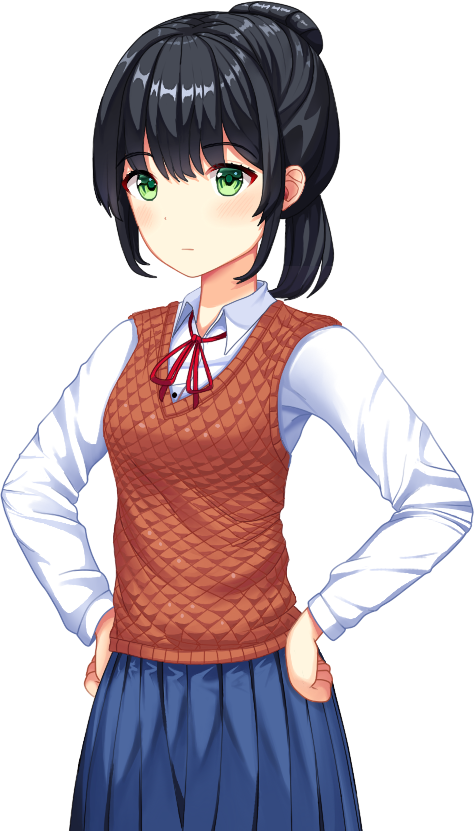
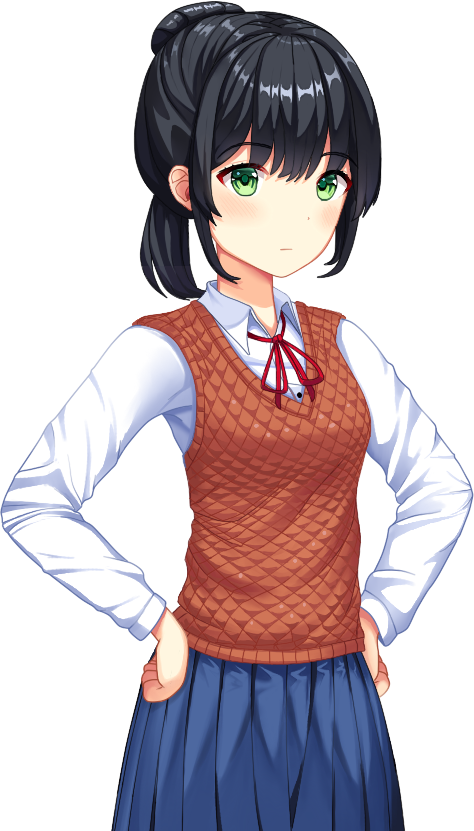
feat: character movement and directionality

diff --git a/src/compiler/ast.rs b/src/compiler/ast.rs
@@ -1,10 +1,9 @@
-use std::collections::HashMap;
-
+use std::{collections::HashMap, iter::Peekable};
 use pest::{iterators::Pair, pratt_parser::PrattParser};
 use pest_derive::Parser;
 use anyhow::{bail, ensure, Context, Result};
 
-use crate::{character::CharacterOperation, chat::controller::GuiChangeTarget};
+use crate::{character::{CharacterOperation, controller::{CharacterDirection, CharacterPosition}}, chat::controller::GuiChangeTarget};
 
 #[derive(Parser)]
 #[grammar = "../sabi.pest"]
@@ -154,6 +153,94 @@ pub fn build_expression(pair: pest::iterators::Pair<Rule>) -> Result<Expr> {
         .context("Failed to parse expression")
 }
 
+fn build_character_spawn_directive(character: &str, action: &str, mut inner_action: Peekable<pest::iterators::Pairs<'_, Rule>>) -> Result<StageCommand> {
+    let result = match action {
+        "appears" | "fade in" => {
+            let mut parameters: (Option<String>, Option<CharacterPosition>, bool) = (None, None, action == "fade in");
+            let mut added_action = Some(());
+            while let Some(_) = added_action {
+                match inner_action.peek() {
+                    Some(n) if n.as_rule() == Rule::emotion_name => {
+                        let emotion_pair = inner_action.next()
+                            .context("Expected emotion pair")?;
+                     
+                        ensure!(emotion_pair.as_rule() == Rule::emotion_name,
+                            "Expected emotion name, found {:?}", emotion_pair.as_rule());
+                        parameters.0 = Some(emotion_pair.as_str().to_owned());
+                    },
+                    Some(n) if n.as_rule() == Rule::character_position => {
+                        let position_pair = inner_action.next()
+                            .context("Expected position pair")?;
+                        
+                        ensure!(position_pair.as_rule() == Rule::character_position,
+                            "Expecter position, found {:?}", position_pair.as_rule());
+                        let position = match CharacterPosition::try_from(position_pair.as_str()) {
+                            Ok(pos) => pos,
+                            Err(e) => bail!(e)
+                        };
+                        parameters.1 = Some(position);
+                    }
+                    _ => {added_action = None;}
+                };
+            }
+            StageCommand::CharacterChange { character: character.to_string(), operation: CharacterOperation::Spawn(parameters.0, parameters.1, parameters.2) }
+        },
+        "disappears" | "fade out" => {
+            StageCommand::CharacterChange { character: character.to_string(), operation: CharacterOperation::Despawn(action == "fade out") }
+        },
+        other => bail!("Unexpected action in Character Spawn Directive command: {:?}", other)
+    };
+    Ok(result)
+}
+
+fn build_character_direction_directive(character: &str, action: &str, mut inner_action: Peekable<pest::iterators::Pairs<'_, Rule>>) -> Result<StageCommand> {
+    let result = match action {
+        "looking" | "looks" => {
+            let direction = match inner_action.peek() {
+                Some(n) if n.as_rule() == Rule::character_direction => {
+                    let direction_pair = inner_action.next().context("Expected character direction")?;
+                    ensure!(direction_pair.as_rule() == Rule::character_direction,
+                        "Expected character direction, found {:?}", direction_pair.as_rule());
+                    
+                    match direction_pair.as_str() {
+                        "left" => CharacterDirection::Left,
+                        "right" => CharacterDirection::Right,
+                        other => { bail!("Unhandled direction provided {:?}", other); }
+                    }
+                    
+                },
+                _ => { bail!("Character direction directive needs direction argument [\"left\", \"right\"]"); }
+            };
+            StageCommand::CharacterChange { character: character.to_string(), operation: CharacterOperation::Look(direction) }
+        }
+        other => bail!("Unexpected action in Character Direction Directive command: {:?}", other)
+    };
+    Ok(result)
+}
+
+fn build_character_movement_directive(character: &str, action: &str, mut inner_action: Peekable<pest::iterators::Pairs<'_, Rule>>) -> Result<StageCommand> {
+    let result = match action {
+        "moves" => {
+            let position = match inner_action.peek() {
+                Some(n) if n.as_rule() == Rule::character_position => {
+                    let position_pair = inner_action.next().context("Expected character direction")?;
+                    ensure!(position_pair.as_rule() == Rule::character_position,
+                        "Expected character position, found {:?}", position_pair.as_rule());
+                    
+                    match CharacterPosition::try_from(position_pair.as_str()) {
+                        Ok(pos) => pos,
+                        Err(e) => bail!(e)
+                    }
+                },
+                _ => { bail!("Character move directive needs position argument [\"center\", \"left\", \"right\", \"invisible left\", \"invisible right\"]"); }
+            };
+            StageCommand::CharacterChange { character: character.to_string(), operation: CharacterOperation::Move(position) }
+        }
+        other => bail!("Unexpected action in Character Direction Directive command: {:?}", other)
+    };
+    Ok(result)
+}
+
 pub fn build_stage_command(pair: Pair<Rule>) -> Result<Statement> {
     ensure!(pair.as_rule() == Rule::stage_command, 
         "Expected stage rule, found {:?}", pair.as_rule());
@@ -212,29 +299,15 @@ pub fn build_stage_command(pair: Pair<Rule>) -> Result<Statement> {
                 .as_str()
                 .to_owned();
             let action = inner_rules.next()
-                .context("Character change missing character action")?
-                .as_str()
-                .to_owned();
-            match action.as_str() {
-                "appears" | "fade in" => {
-                    let fading = action.as_str() == "fade in";
-                    let operation = match inner_rules.peek() {
-                        Some(n) if n.as_rule() == Rule::emotion_name => {
-                            let emotion_pair = inner_rules.next()
-                                .context("Expected emotion pair")?;
-                            
-                            ensure!(emotion_pair.as_rule() == Rule::emotion_name,
-                                "Expected emotion name, found {:?}", emotion_pair.as_rule());
-                            CharacterOperation::Spawn(Some(emotion_pair.as_str().to_owned()), fading)
-                        },
-                        _ => CharacterOperation::Spawn(None, fading)
-                    };
-                    StageCommand::CharacterChange { character, operation }
-                },
-                "disappears" | "fade out" => {
-                    StageCommand::CharacterChange { character, operation: CharacterOperation::Despawn(action.as_str() == "fade out") }
-                },
-                other => bail!("Unexpected action in Character Change command: {:?}", other)
+                .context("Character change missing character action")?;
+            let mut inner_action = action.into_inner().peekable();
+            let action = inner_action.next()
+                .context("Character action missing action identifier")?;
+            match action.as_rule() {
+                Rule::character_spawn_directive => { build_character_spawn_directive(&character, action.as_str(), inner_action)? }
+                Rule::character_direction_directive => { build_character_direction_directive(&character, action.as_str(), inner_action)? },
+                Rule::character_movement_directive => { build_character_movement_directive(&character, action.as_str(), inner_action)? },
+                other => { bail!("Unexpected rule in character_action {:?}", other); }
             }
         },
         other => bail!("Unexpected rule in stage command: {:?}", other)

diff --git a/src/character/controller.rs b/src/character/controller.rs
@@ -1,11 +1,17 @@
 use std::collections::HashMap;
 
-use anyhow::{Result, Context};
+use anyhow::{Context, Result};
 use bevy::{asset::{LoadState, LoadedFolder}, prelude::*};
 use serde::Deserialize;
 
-use crate::{character::character_operations::{apply_alpha, change_character_emotion, spawn_character}, compiler::controller::{Controller, ControllerReadyMessage, TriggerControllersMessage}, ChatScrollStopwatch, GUIScrollText, VisualNovelState};
+use crate::{ChatScrollStopwatch, GUIScrollText, VisualNovelState, character::character_operations::{apply_alpha, change_character_emotion, move_characters, spawn_character}, compiler::controller::{Controller, ControllerReadyMessage, TriggerControllersMessage}};
 use crate::compiler::controller::UiRoot;
+
+pub const INVISIBLE_LEFT_PERCENTAGE: f32 = -40.;
+pub const LEFT_PERCENTAGE: f32 = 10.;
+pub const CENTER_PERCENTAGE: f32 = 35.;
+pub const RIGHT_PERCENTAGE: f32 = 60.;
+pub const INVISIBLE_RIGHT_PERCENTAGE: f32 = 140.;
 
 /* States */
 #[derive(States, Debug, Default, Clone, Copy, Hash, Eq, PartialEq)]
@@ -26,6 +32,43 @@ pub struct CharacterConfig {
     pub outfits: Vec<String>,
 }
 
+#[derive(Component, Default, Debug, Clone, PartialEq)]
+pub enum CharacterPosition {
+    #[default]
+    Center,
+    Left,
+    Right,
+    InvisibleLeft,
+    InvisibleRight,
+}
+
+impl CharacterPosition {
+    pub fn to_percentage_value(&self) -> f32 {
+        match &self {
+            CharacterPosition::Center => CENTER_PERCENTAGE,
+            CharacterPosition::Left => LEFT_PERCENTAGE,
+            CharacterPosition::Right => RIGHT_PERCENTAGE,
+            CharacterPosition::InvisibleLeft => INVISIBLE_LEFT_PERCENTAGE,
+            CharacterPosition::InvisibleRight => INVISIBLE_RIGHT_PERCENTAGE
+        }
+    }
+}
+
+impl TryFrom<&str> for CharacterPosition {
+    type Error = BevyError;
+    
+    fn try_from(value: &str) -> Result<Self, BevyError> {
+        match value {
+            "center" => Ok(CharacterPosition::Center),
+            "left" => Ok(CharacterPosition::Left),
+            "right" => Ok(CharacterPosition::Right),
+            "invisible left" => Ok(CharacterPosition::InvisibleLeft),
+            "invisible right" => Ok(CharacterPosition::InvisibleRight),
+            other => { Err(anyhow::anyhow!("Unhandled direction provided {:?}", other).into()) }
+        }
+    }
+}
+
 /* Resources */
 #[derive(Resource)]
 struct HandleToCharactersFolder(Handle<LoadedFolder>);
@@ -35,6 +78,8 @@ pub struct CharactersResource(pub CharacterSprites);
 struct Configs(CharactersConfig);
 #[derive(Resource, Default)]
 pub struct FadingCharacters(pub Vec<(Entity, f32, bool)>); // entity, alpha_step, to_despawn
+#[derive(Resource, Default)]
+pub struct MovingCharacters(pub Vec<(Entity, f32)>); // entity, target_position
 
 /* Custom types */
 #[derive(Hash, Eq, PartialEq, Debug)]
@@ -47,10 +92,18 @@ type CharacterSprites = HashMap<SpriteKey, Handle<Image>>;
 type CharactersConfig = HashMap<String, CharacterConfig>;
 
 #[derive(Debug, Clone, PartialEq)]
+pub enum CharacterDirection {
+    Left,
+    Right
+}
+
+#[derive(Debug, Clone, PartialEq)]
 pub enum CharacterOperation {
-    Spawn(Option<String>, bool), // emotion, fading
+    Spawn(Option<String>, Option<CharacterPosition>, bool), // emotion, position, fading
     EmotionChange(String),
     Despawn(bool), // fading
+    Look(CharacterDirection),
+    Move(CharacterPosition),
 }
 
 /* Messages */
@@ -62,7 +115,7 @@ pub struct CharacterChangeMessage {
 
 impl CharacterChangeMessage {
     pub fn is_blocking(&self) -> bool {
-        if let CharacterOperation::Spawn(_, true) = self.operation {
+        if let CharacterOperation::Spawn(_, _, true) = self.operation {
             true
         } else if let CharacterOperation::Despawn(true) = self.operation {
             true
@@ -73,13 +126,15 @@ impl CharacterChangeMessage {
 pub struct CharacterController;
 impl Plugin for CharacterController {
     fn build(&self, app: &mut App) {
-        app.insert_resource(FadingCharacters::default())
+        app.insert_resource(MovingCharacters::default())
+            .insert_resource(FadingCharacters::default())
             .add_message::<CharacterChangeMessage>()
             .init_state::<CharacterControllerState>()
             .add_systems(OnEnter(CharacterControllerState::Loading), import_characters)
             .add_systems(Update, setup.run_if(in_state(CharacterControllerState::Loading)))
             .add_systems(Update, wait_trigger.run_if(in_state(CharacterControllerState::Idle)))
-            .add_systems(Update, (update_characters, apply_alpha).run_if(in_state(CharacterControllerState::Running)));
+            .add_systems(Update, (update_characters, apply_alpha, move_characters)
+                .run_if(in_state(CharacterControllerState::Running)));
     }
 }
 fn define_characters_map(
@@ -183,6 +238,7 @@ fn update_characters(
     sprites: Res<CharactersResource>,
     mut configs: ResMut<Configs>,
     mut fading_characters: ResMut<FadingCharacters>,
+    mut moving_characters: ResMut<MovingCharacters>,
     mut character_change_message: MessageReader<CharacterChangeMessage>,
     mut game_state: ResMut<VisualNovelState>,
     images: Res<Assets<Image>>,
@@ -193,13 +249,13 @@ fn update_characters(
     for msg in character_change_message.read() {
         let character_config = configs.0.get_mut(&msg.character).context(format!("Character config not found for {}", &msg.character))?;
         match &msg.operation {
-            CharacterOperation::Spawn(emotion, fading) => {
+            CharacterOperation::Spawn(emotion, position, fading) => {
                 let emotion = if let Some(e) = emotion { e } else { &character_config.emotion };
                 character_config.emotion = emotion.clone();
                 if let Some(_) = character_query.iter_mut().find(|entity| entity.1.name == character_config.name) {
                     warn!("Another instance of the character is already in the World!");
                 }
-                spawn_character(&mut commands, character_config.clone(), &sprites, fading, &mut fading_characters, &ui_root, &images)?;
+                spawn_character(&mut commands, character_config.clone(), &sprites, fading, &mut fading_characters, &ui_root, &images, position.clone())?;
                 if *fading {
                     game_state.blocking = true;
                 }
@@ -228,6 +284,24 @@ fn update_characters(
                     for entity in character_query.iter().filter(|c| c.1.name == character_config.name) {
                         commands.entity(entity.0).despawn();
                     }
+                }
+            },
+            CharacterOperation::Look(direction) => {
+                for (_, _, mut image) in character_query.iter_mut().filter(|c| c.1.name == character_config.name) {
+                    image.flip_x = direction == &CharacterDirection::Left;
+                }
+            },
+            CharacterOperation::Move(position) => {
+                for (entity, _, _) in character_query.iter_mut().filter(|c| c.1.name == character_config.name) {
+                    let target_position = match position {
+                        CharacterPosition::Center => { CENTER_PERCENTAGE },
+                        CharacterPosition::Left => { LEFT_PERCENTAGE },
+                        CharacterPosition::Right => { RIGHT_PERCENTAGE },
+                        CharacterPosition::InvisibleLeft => { INVISIBLE_LEFT_PERCENTAGE },
+                        CharacterPosition::InvisibleRight => { INVISIBLE_RIGHT_PERCENTAGE }
+                    };
+                    moving_characters.0.push((entity, target_position));
+                    game_state.blocking = true;
                 }
             }
         }

diff --git a/src/character/character_operations.rs b/src/character/character_operations.rs
@@ -1,8 +1,10 @@
 use std::ops::Index;
 use anyhow::Context;
 use bevy::prelude::*;
-use crate::{character::{controller::{FadingCharacters, SpriteKey}, CharacterConfig, CharactersResource}, VisualNovelState};
+use crate::{VisualNovelState, character::{CharacterConfig, CharactersResource, controller::{CharacterPosition, FadingCharacters, MovingCharacters, SpriteKey}}};
 use crate::compiler::controller::UiRoot;
+
+const MOVEMENT_STEP: f32 = 0.2;
 
 #[derive(Component)]
 pub struct Character;
@@ -22,6 +24,43 @@ pub fn change_character_emotion(
    image.image = sprite.clone();
    
    Ok(())
+}
+pub fn move_characters(
+    query: Query<(Entity, &mut Node), With<Character>>,
+    mut moving_characters: ResMut<MovingCharacters>,
+    mut game_state: ResMut<VisualNovelState>,
+) {
+    for (entity, mut node) in query {
+        let enumerated_element = moving_characters.0.iter().enumerate().find(|(_, e)| e.0 == entity);
+        if let Some((index, target_pos)) = enumerated_element {
+            let new_value = match node.left {
+                Val::Percent(val) => {
+                    if (val - target_pos.1).abs() < MOVEMENT_STEP {
+                        target_pos.1
+                    } else if val < target_pos.1 {
+                        val + MOVEMENT_STEP
+                    } else { val - MOVEMENT_STEP }
+                },
+                _ => {
+                    warn!("Movement directives accepts only characters with percentage value as position!");
+                    moving_characters.0.remove(index);
+                    if moving_characters.0.is_empty() {
+                        game_state.blocking = false;
+                        return;
+                    }
+                    continue;
+                }
+            };
+            node.left = Val::Percent(new_value);
+            if new_value == target_pos.1 {
+                moving_characters.0.remove(index);
+            }
+            if moving_characters.0.is_empty() {
+                game_state.blocking = false;
+                return;
+            }
+        }
+    }
 }
 pub fn apply_alpha(
     mut commands: Commands,
@@ -73,6 +112,7 @@ pub fn spawn_character(
     fading_characters: &mut ResMut<FadingCharacters>,
     ui_root: &Single<Entity, With<UiRoot>>,
     images: &Res<Assets<Image>>,
+    position: Option<CharacterPosition>,
 ) -> Result<(), BevyError> {
     let sprite_key = SpriteKey {
         character: character_config.name.clone(),
@@ -93,9 +133,10 @@ pub fn spawn_character(
             },
             Node {
                 position_type: PositionType::Absolute,
-                max_height: Val::Vh(75.),
-                bottom: Val::Px(0.),
+                max_height: Val::Percent(75.),
+                bottom: Val::Percent(0.),
                 aspect_ratio: Some(aspect_ratio),
+                left: Val::Percent(position.unwrap_or_default().to_percentage_value()),
                 ..default()
             },
             ZIndex(2),
